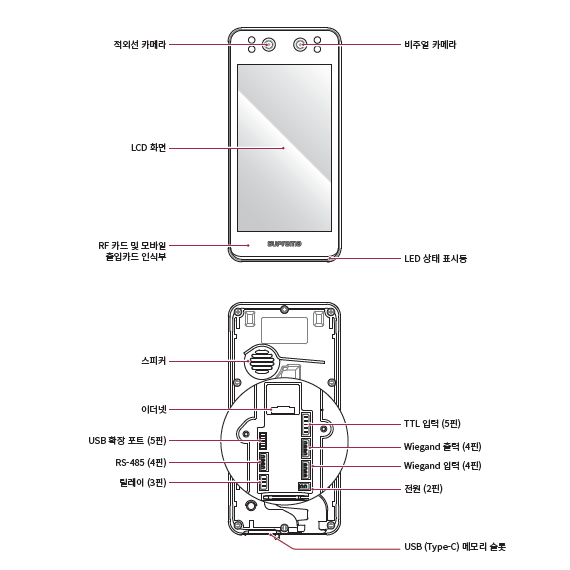
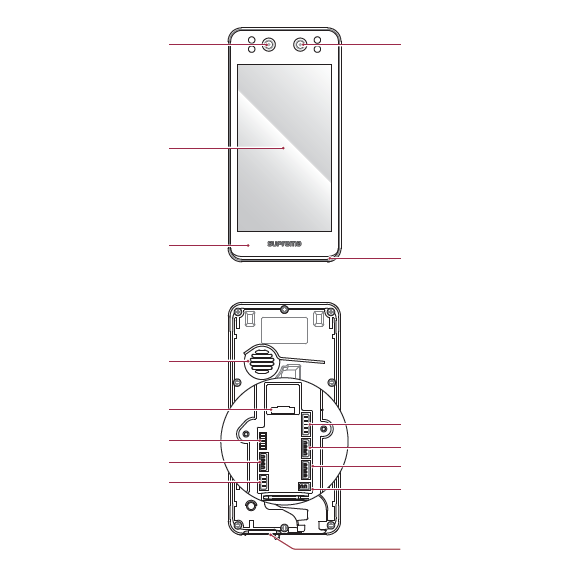
feat: Productpart 컴포넌트 추가

diff --git a/src/components/Productpart/index.js b/src/components/Productpart/index.js
@@ -1,0 +1,48 @@
+import React from 'react';
+import useBaseUrl from '@docusaurus/useBaseUrl';
+import clsx from 'clsx';
+import styles from './styles.module.css';
+
+export function Productpart({ src, maxHeight, maxWidth, children }) {
+  return (
+    <div className='overflow-x'>
+      <div className={styles.product_parts}>
+        <img src={useBaseUrl(src)} className='none' style={{maxHeight: maxHeight, maxWidth: maxWidth}} />
+        { children }
+      </div>
+    </div>
+  )
+}
+
+export function Callout({ children, width, position}) {
+  return (
+    <>
+      {React.Children.map(children, child =>
+        React.isValidElement(child)
+          ? React.cloneElement(child, { width, position })
+          : child
+      )}
+    </>
+  )
+}
+
+export function Item({children, width, position, top}) {
+  let aligndir;
+  if (position === 'left') aligndir = 'right';
+  if (position === 'right') aligndir = 'left';
+
+  return (
+    <div 
+      className={clsx(styles.absolute, styles.desc)}
+      style={{
+        width: width, 
+        top: top, 
+        ...(position === 'left' ? {left: 0} : {right: 0}), 
+        textAlign: aligndir
+      }}
+    >
+      {children}
+    </div>
+
+  )
+}

diff --git a/src/theme/MDXComponents.js b/src/theme/MDXComponents.js
@@ -25,6 +25,7 @@ import Separator from '@site/src/components/Separator';
 import Badge from '@site/src/components/Badge';
 import BugLists from '@site/src/components/BugLists';
 import Jira from '@site/src/components/Jira';
+import { Productpart, Callout, Item } from '@site/src/components/Productpart';
 // icon images svg
 import IcLicense from '@site/static/img/menus/ico-license.svg';
 import IcAdd from '@site/static/img/menus/ico-add.svg';
@@ -90,6 +91,7 @@ export default {
     Badge,
     BugLists,
     Jira,
+    Productpart, Callout, Item,
     IcLicense,
     IcAdd,
     IcClose,

diff --git a/src/components/Productpart/styles.module.css b/src/components/Productpart/styles.module.css
@@ -1,0 +1,20 @@
+.product_parts {
+  position: relative;
+  width: fit-content;
+}
+
+.product_parts img {
+  width: fit-content;
+}
+
+.absolute {
+  position: absolute
+}
+
+.right {
+  text-align: right;
+}
+
+.desc {
+  font-size: .8rem;
+}
